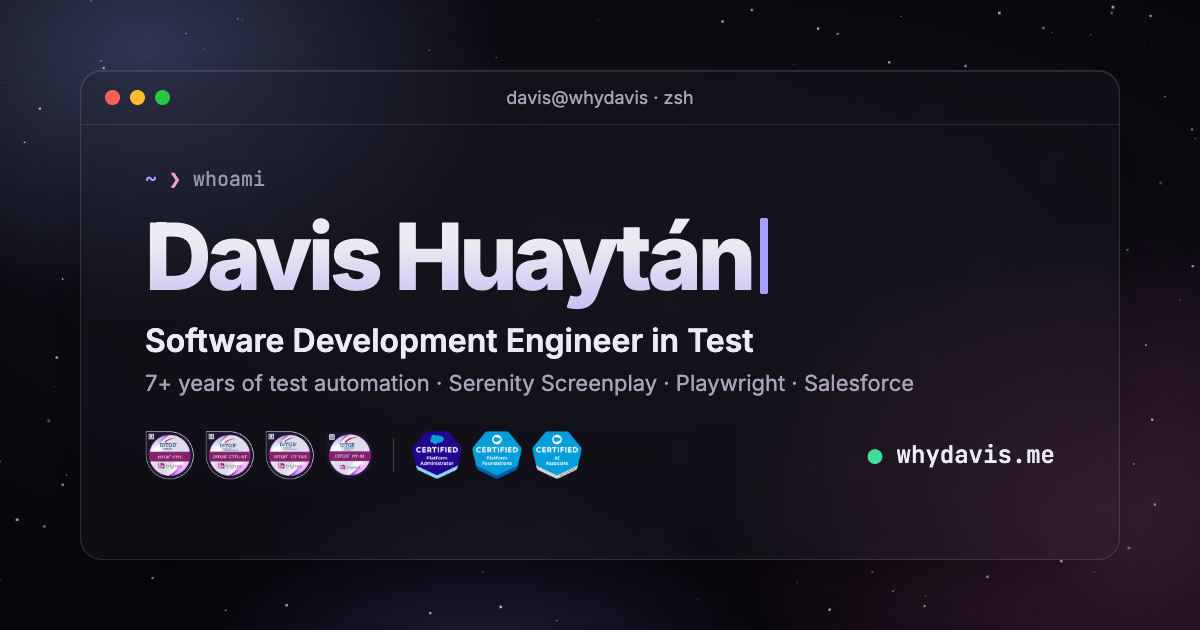
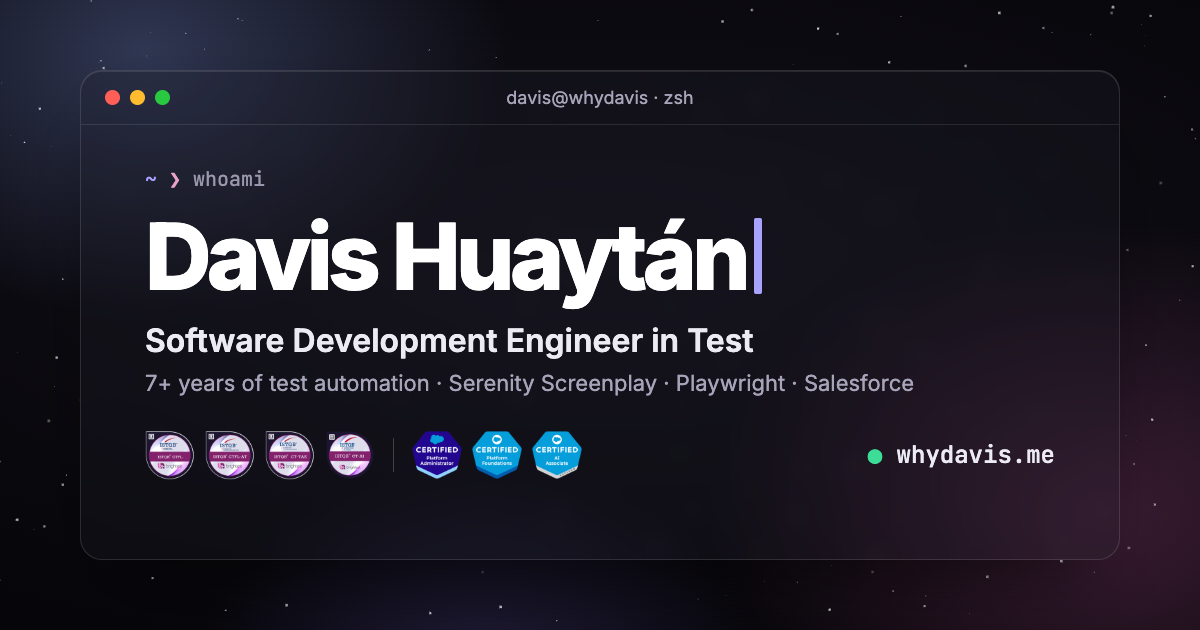
Frosted glass windows, solid white type and dark glass pill buttons
Also drops the Claude Code mention from the footer.

Changed region(s): [[0.1233, 0.3317, 0.6475, 0.5127]]

diff --git a/styles.css b/styles.css
@@ -24,7 +24,7 @@
   --icon-filter: invert(1);
   --ease-out: cubic-bezier(0.23, 1, 0.32, 1);
   --ease-in-out: cubic-bezier(0.77, 0, 0.175, 1);
-  --radius: 16px;
+  --radius: 26px;
   --sans: "Inter", -apple-system, BlinkMacSystemFont, "SF Pro Text", system-ui, sans-serif;
   --mono: "JetBrains Mono", "SF Mono", ui-monospace, Menlo, monospace;
 }
@@ -71,6 +71,15 @@ ul, ol { list-style: none; }
   -webkit-backdrop-filter: blur(10px) saturate(170%);
 }
 
+/* Windows are thick frosted glass: darker tint, heavy blur, a soft lit top edge */
+.window {
+  background: linear-gradient(180deg, rgba(28, 27, 36, 0.46), rgba(12, 11, 16, 0.58));
+  border-color: rgba(255, 255, 255, 0.09);
+  box-shadow: inset 0 1px 0 rgba(255, 255, 255, 0.14), inset 0 0 0 1px rgba(255, 255, 255, 0.02), 0 40px 90px -30px rgba(0, 0, 0, 0.75);
+  backdrop-filter: blur(28px) saturate(140%);
+  -webkit-backdrop-filter: blur(28px) saturate(140%);
+}
+
 /* ───────── Menu bar ───────── */
 .menubar {
   position: fixed; top: 0; left: 0; right: 0; z-index: 20;
@@ -110,7 +119,7 @@ main { width: min(1080px, 100% - 32px); margin: 0 auto; padding: 84px 0 40px; }
   font: 500 12px/1 var(--mono); text-transform: uppercase; letter-spacing: 0.14em;
   color: var(--accent); margin-bottom: 10px;
 }
-h2 { font-size: clamp(24px, 3.4vw, 34px); line-height: 1.15; font-weight: 700; letter-spacing: -0.025em; }
+h2 { font-size: clamp(26px, 3.6vw, 38px); line-height: 1.1; font-weight: 800; letter-spacing: -0.035em; color: #fff; }
 
 /* ───────── Windows ───────── */
 /* clip (not hidden) so sticky children, like the diagram panel on phones, still stick to the viewport */
@@ -154,13 +163,8 @@ h2 { font-size: clamp(24px, 3.4vw, 34px); line-height: 1.15; font-weight: 700; l
 .p-user { color: var(--accent); }
 .p-sym { color: var(--accent-2); }
 .name {
-  font-size: clamp(42px, 8.4vw, 92px); line-height: 0.98; font-weight: 800;
-  letter-spacing: -0.045em;
-  background: linear-gradient(180deg, var(--text) 30%, color-mix(in srgb, var(--text) 62%, var(--accent)));
-  -webkit-background-clip: text; background-clip: text; color: transparent;
-  /* the gradient only paints inside the box: extend it below the baseline so
-     descenders (the y in Huaytán) aren't cut, without changing the layout */
-  padding-bottom: 0.14em; margin-bottom: -0.14em;
+  font-size: clamp(54px, 10.5vw, 112px); line-height: 0.94; font-weight: 800;
+  letter-spacing: -0.05em; color: #fff;
 }
 .cursor {
   display: inline-block; width: 0.09em; height: 0.82em; margin-left: 0.08em; vertical-align: -0.04em;
@@ -168,8 +172,8 @@ h2 { font-size: clamp(24px, 3.4vw, 34px); line-height: 1.15; font-weight: 700; l
   animation: blink 1.1s steps(1) infinite;
 }
 @keyframes blink { 50% { opacity: 0; } }
-.role { margin-top: 14px; font-size: clamp(17px, 2.2vw, 21px); font-weight: 600; color: var(--text); letter-spacing: -0.01em; }
-.summary { margin-top: 10px; max-width: 58ch; font-size: 16px; color: var(--text-2); }
+.role { margin-top: 18px; font-size: clamp(17px, 2.2vw, 21px); font-weight: 700; color: #fff; letter-spacing: -0.01em; }
+.summary { margin-top: 8px; max-width: 58ch; font-size: 16px; font-weight: 500; color: var(--text-2); }
 /* Certification badges: small in the hero. Hover / focus / tap grows the badge a
    little and names it in the caption beside the row, so nothing covers the text. */
 .certs-row { display: flex; flex-wrap: wrap; align-items: center; gap: 6px 16px; margin-top: 18px; }
@@ -225,16 +229,18 @@ h2 { font-size: clamp(24px, 3.4vw, 34px); line-height: 1.15; font-weight: 700; l
 .certs-row.showing .cap-default { opacity: 0; }
 .certs-row.showing .cap-live { opacity: 1; }
 .cta { display: flex; flex-wrap: wrap; gap: 10px; margin-top: 24px; }
+/* Dark glass pills; the primary one has a brighter rim */
 .btn {
-  display: inline-flex; align-items: center; gap: 6px; height: 36px; padding: 0 16px;
-  border-radius: 10px; font-size: 14px; font-weight: 600;
-  border: 1px solid var(--stroke-2); background: var(--glass-hi); color: var(--text);
-  transition: transform 160ms var(--ease-out), background-color 150ms ease, border-color 150ms ease;
+  display: inline-flex; align-items: center; gap: 7px; height: 40px; padding: 0 20px;
+  border-radius: 999px; font-size: 14px; font-weight: 700; color: var(--text-2);
+  border: 1px solid rgba(255, 255, 255, 0.1); background: rgba(8, 8, 12, 0.4);
+  box-shadow: inset 0 1px 0 rgba(255, 255, 255, 0.08), 0 10px 24px -12px rgba(0, 0, 0, 0.7);
+  transition: transform 160ms var(--ease-out), background-color 150ms ease, border-color 150ms ease, color 150ms ease;
 }
-.btn:hover { border-color: var(--accent); }
+.btn:hover { color: #fff; border-color: rgba(255, 255, 255, 0.24); background: rgba(8, 8, 12, 0.55); }
 .btn:active { transform: scale(0.97); }
-.btn-primary { background: var(--text); color: var(--bg); border-color: transparent; }
-.btn-primary:hover { border-color: transparent; background: color-mix(in srgb, var(--text) 88%, var(--accent)); }
+.btn-primary { color: #fff; border-color: rgba(255, 255, 255, 0.22); box-shadow: inset 0 1px 0 rgba(255, 255, 255, 0.18), 0 10px 24px -12px rgba(0, 0, 0, 0.7); }
+.btn-primary:hover { border-color: rgba(255, 255, 255, 0.4); }
 
 
 /* ───────── Stack ───────── */

diff --git a/index.html b/index.html
@@ -59,7 +59,7 @@
         </div>
         <div class="win-body hero-body">
           <p class="prompt"><span class="p-user">~</span> <span class="p-sym">❯</span> <span class="typed" data-text="whoami">whoami</span></p>
-          <h1 class="name">Davis Huaytán<span class="cursor" aria-hidden="true"></span></h1>
+          <h1 class="name">Davis<br>Huaytán<span class="cursor" aria-hidden="true"></span></h1>
           <p class="role">Software Development Engineer in Test</p>
           <p class="summary">7+ years building test automation for banking and e-commerce.</p>
           <div class="certs-row">
@@ -236,7 +236,7 @@
 
   <footer class="footer">
     <p>© <span id="year">2026</span> Davis Huaytán · whydavis.me</p>
-    <p class="built-with">Built with <a href="https://claude.com/claude-code" target="_blank" rel="noopener">Claude Code</a>, plenty of coffee and zero flaky&nbsp;tests&nbsp;<span aria-hidden="true">☕</span></p>
+    <p class="built-with">Built with plenty of coffee and zero flaky&nbsp;tests&nbsp;<span aria-hidden="true">☕</span></p>
   </footer>
 
   <!-- Dock -->

diff --git a/og/og.html b/og/og.html
@@ -31,9 +31,8 @@
   .prompt { font: 400 20px/1 'JetBrains Mono', monospace; color: #9a96ab; }
   .prompt b { color: #a8a2ff; font-weight: 400; } .prompt em { color: #e8a2c8; font-style: normal; }
   h1 {
-    margin-top: 22px; font-size: 92px; line-height: 1; font-weight: 800; letter-spacing: -0.045em;
-    background: linear-gradient(180deg, #ecebf3 30%, #c3bdf3); -webkit-background-clip: text; color: transparent;
-    padding-bottom: 0.14em; margin-bottom: -0.14em;
+    margin-top: 22px; font-size: 92px; line-height: 1; font-weight: 800; letter-spacing: -0.05em;
+    color: #fff;
   }
   h1 i { display: inline-block; width: 8px; height: 76px; margin-left: 8px; vertical-align: -4px; background: #a8a2ff; border-radius: 2px; }
   .role { margin-top: 18px; font-size: 32px; font-weight: 600; }
